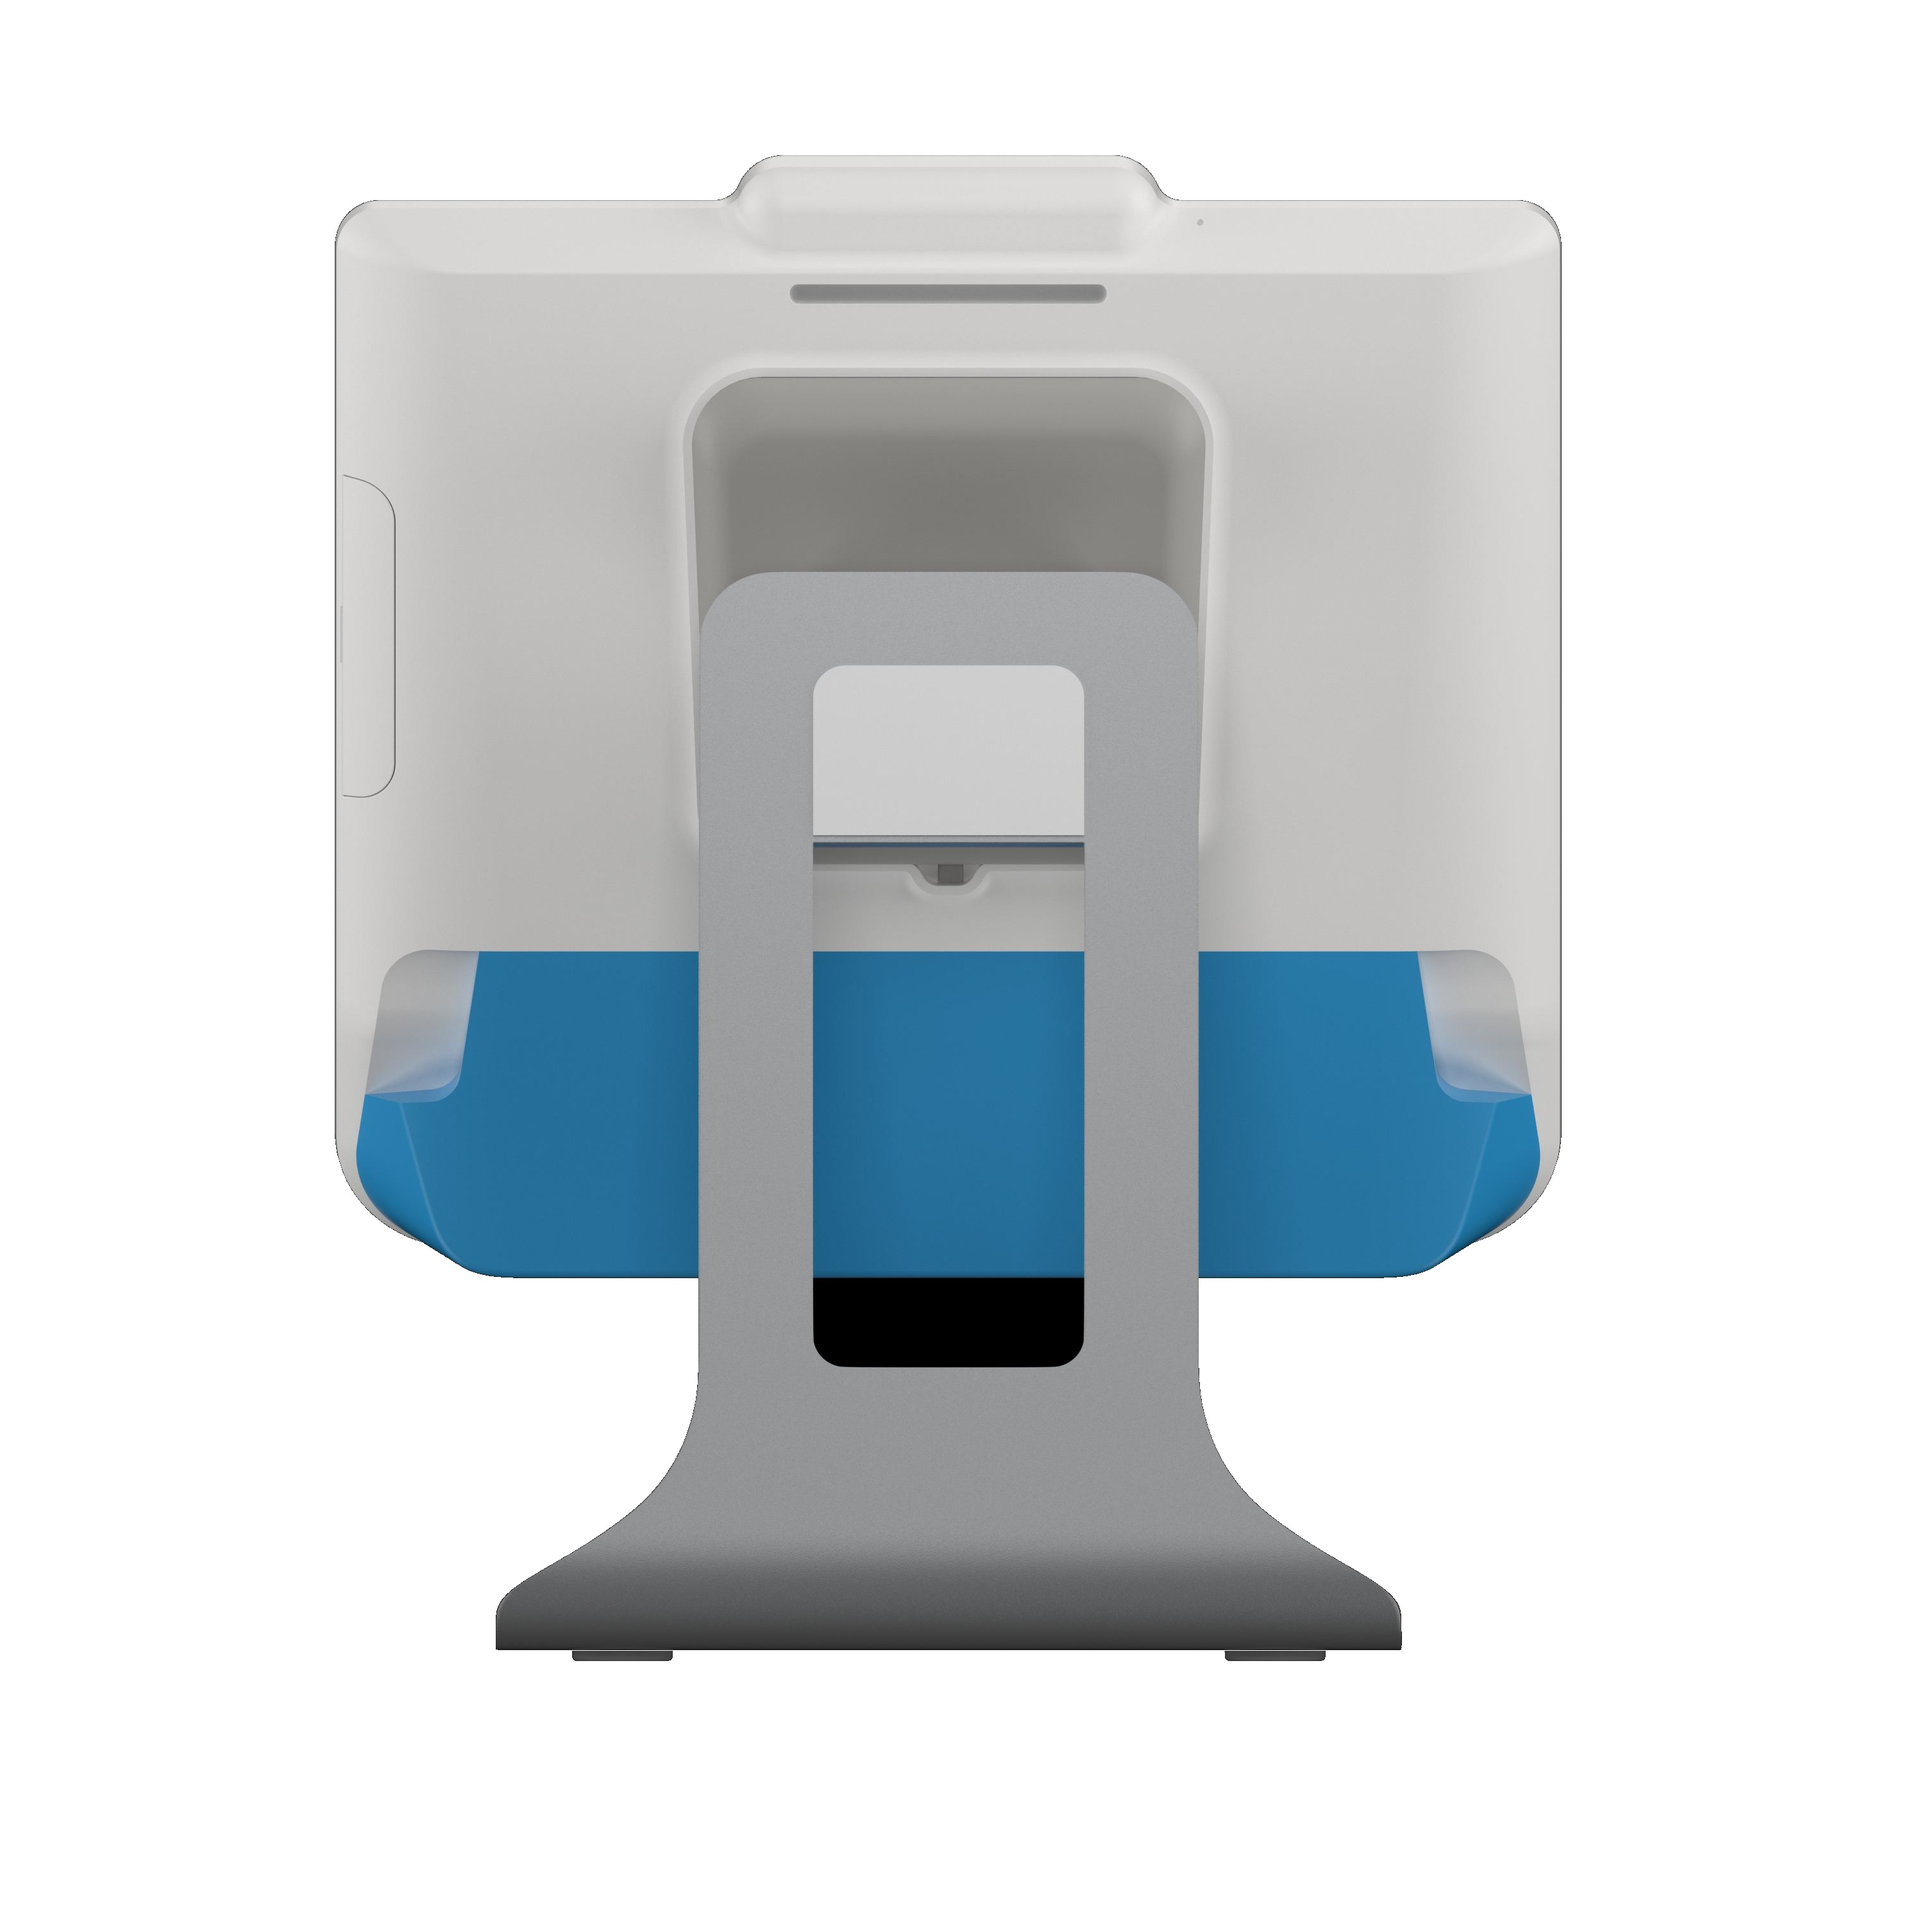
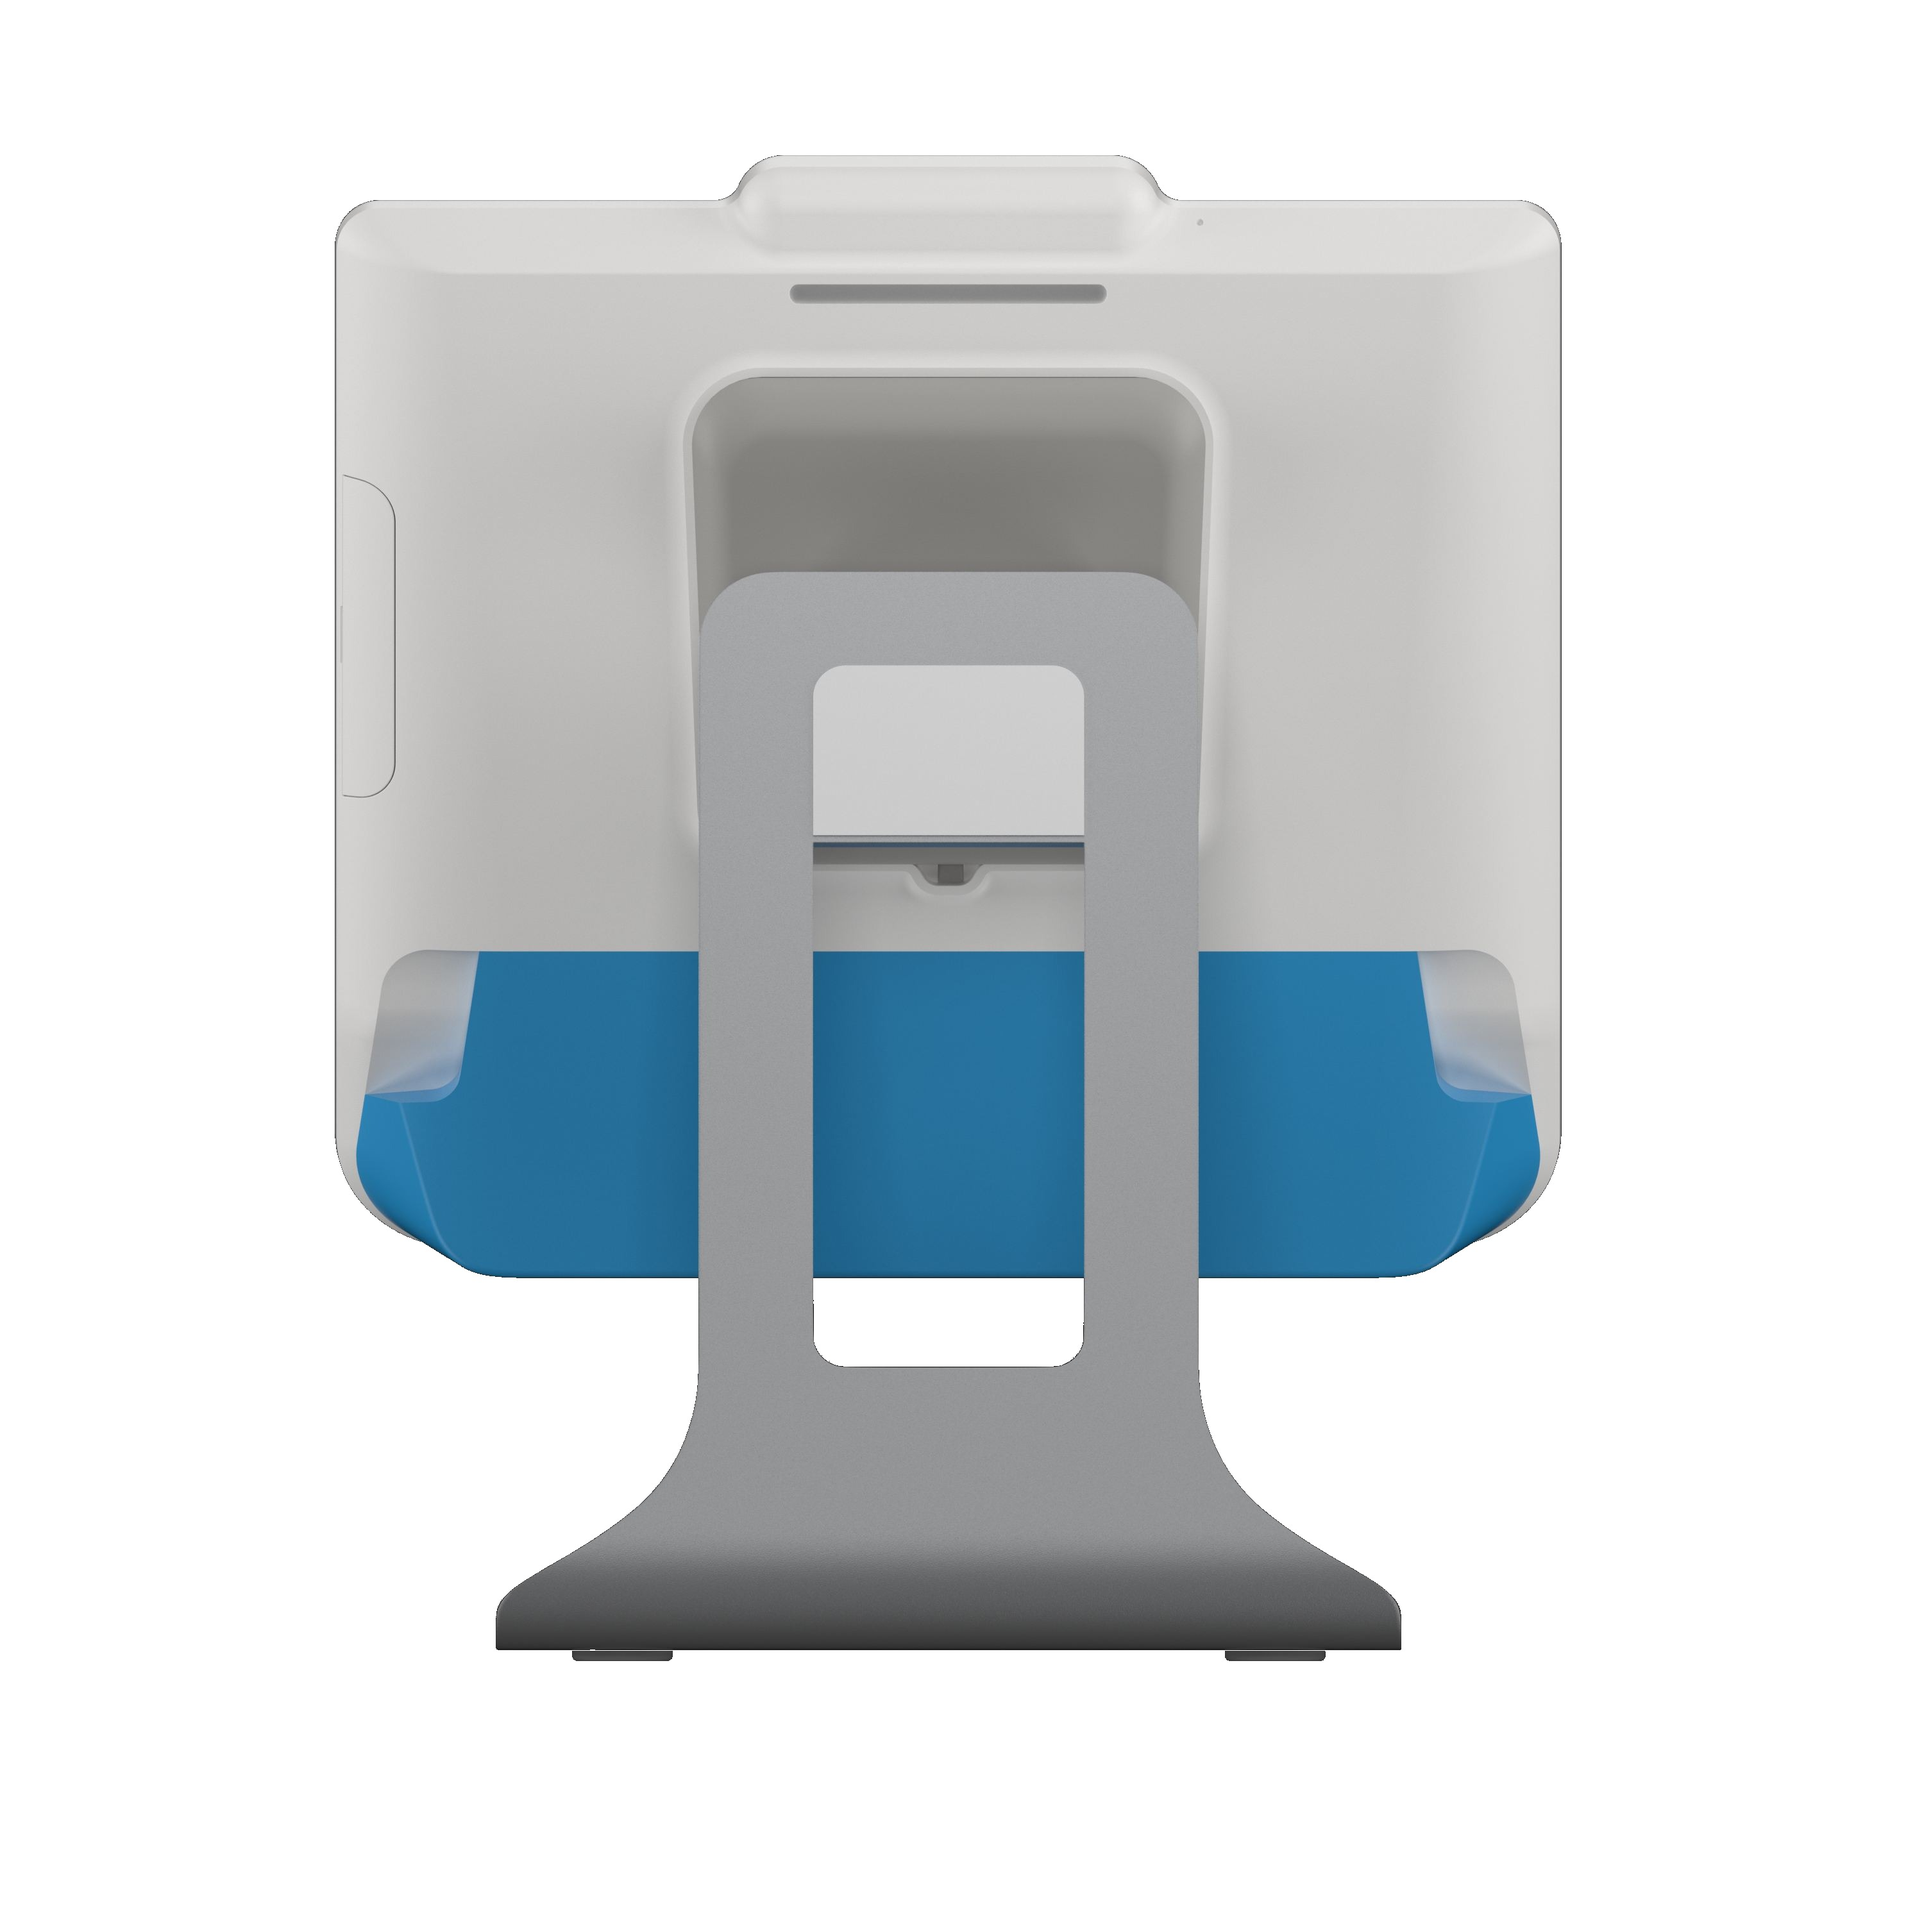
feat: update product images and details for T6711 device

Changed region(s): [[0.403, 0.651, 0.589, 0.713]]

diff --git a/lib/products.ts b/lib/products.ts
@@ -162,7 +162,7 @@ export const products: ProductDevice[] = [
     slug: "t6711",
     name: "商捷桌面终端",
     image: "t6711.png",
-    images: ["t6711.png", "t6711-front.jpg", "t6711-side.png", "t6711-back.jpg"],
+    images: ["t6711-front-side.jpg", "t6711-front.jpg", "t6711-back.jpg"],
     model: "T6711",
     os: "安卓8，蚂蚁OS",
     storage: "4G + 64G",
@@ -177,14 +177,14 @@ export const products: ProductDevice[] = [
     specs: [
       { label: "认证型号", value: "T6711" },
       { label: "操作系统", value: "安卓8.1（蚂蚁OS）" },
-      { label: "��理器", value: "8核，1.8GHz" },
+      { label: "处理器", value: "8核，1.8GHz" },
       { label: "存储器", value: "64GB ROM + 4GB RAM" },
       { label: "电源适配器", value: "输入：AC100~240V/0.6A；输出：DC12V/2A" },
       { label: "整机尺寸（长*宽*高）", value: "主机包装：38.01mm × 246.88mm × 229.3mm" },
       { label: "显示屏", value: '10" 高清屏，1280*800，电容多点触摸' },
       { label: "摄像头", value: "3D 结构光摄像头" },
       { label: "整机重量", value: "930g（裸机）" },
-      { label: "安装方式", value: "玻璃 / 桌面 / ��面（支持VESA支架）" },
+      { label: "安装方式", value: "玻璃 / 桌面 / 墙面（支持VESA支架）" },
       { label: "业务模式", value: "半自助" },
     ],
   },

diff --git a/scripts/fixbg.py b/scripts/fixbg.py
@@ -3,19 +3,22 @@ from PIL import Image, ImageDraw
 def fix(src, dst):
     im = Image.open(src).convert("RGB")
     w, h = im.size
-    # 从四角与四边中点洪泛填充：把与边缘相连的黑色背景替换为白色
-    # 熄屏黑屏被白色边框包围，与边缘不连通，故不受影响
-    seeds = [
-        (0, 0), (w - 1, 0), (0, h - 1), (w - 1, h - 1),
-        (w // 2, 0), (w // 2, h - 1), (0, h // 2), (w - 1, h // 2),
-        (2, 2), (w - 3, 2), (2, h - 3), (w - 3, h - 3),
-    ]
+    # 沿四条边密集布置种子点，对与边缘相连的黑色背景洪泛填充为白色。
+    # 熄屏黑屏被白色边框完全包围，与边缘不连通，因此不受影响。
+    seeds = []
+    steps = 40
+    for i in range(steps + 1):
+        x = int(w * i / steps)
+        y = int(h * i / steps)
+        x = min(max(x, 0), w - 1)
+        y = min(max(y, 0), h - 1)
+        seeds += [(x, 0), (x, h - 1), (0, y), (w - 1, y)]
     for s in seeds:
-        ImageDraw.floodfill(im, s, (255, 255, 255), thresh=70)
+        ImageDraw.floodfill(im, s, (255, 255, 255), thresh=90)
     im.save(dst, "JPEG", quality=92)
     print("saved", dst, im.size)
 
 base = "/vercel/share/v0-project/public/images/products/"
-fix(base + "t6711-front-side-raw.jpg", base + "t6711-front-side.jpg")
-fix(base + "t6711-front.jpg", base + "t6711-front.jpg")
-fix(base + "t6711-back.jpg", base + "t6711-back.jpg")
+fix(base + "t6711-fs-raw.jpg", base + "t6711-front-side.jpg")
+fix(base + "t6711-front-raw.jpg", base + "t6711-front.jpg")
+fix(base + "t6711-back-raw.jpg", base + "t6711-back.jpg")
